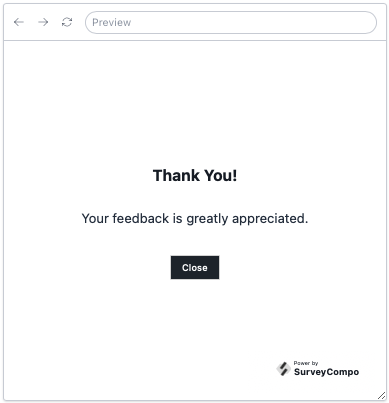
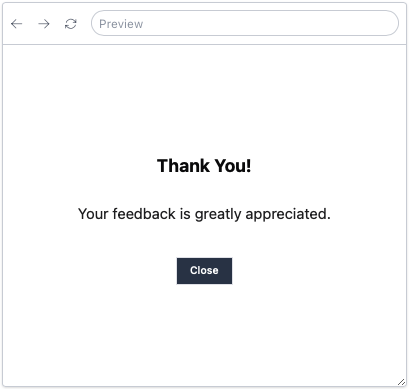
add customization, html text and using template sections

diff --git a/docs/getting-started.md b/docs/getting-started.md
@@ -545,7 +545,7 @@ Now, let's examine the functionality of these validation rules within the Survey
 
 ## Conditional Logic
 
-SurveyCompo supports conditional logic to show/hide specific pages, blocks and inputs based on their responses or external variables. Conditional logic is a powerful tool for tailoring the survey experience to individual participants and ensuring they receive relevant questions. For more information on conditional logic, see the [Conditional Logic](/advanced/#condition) documentation.
+SurveyCompo supports conditional logic to show/hide specific pages, blocks and inputs based on participant responses or external variables. Conditional logic is a powerful tool for tailoring the survey experience to individual participants and ensuring they receive relevant questions. For more information on conditional logic, see the [Conditional Logic](/advanced/#condition) documentation.
 
 In this tutorial, we will incorporate conditional logic into the survey. This will present a follow-up question tailored to the participant's response to the 'Overall satisfaction' question. If a participant expresses dissatisfaction, we will prompt them for additional feedback on potential product improvements. Conversely, if a participant is satisfied, we will ask them to share what they appreciate most about the product.
 
@@ -620,6 +620,138 @@ To enhance user experience, you might consider segregating the conditional block
 Let's preview the conditional logic in the Survey Builder:
 
 ![Tutorial - Conditional Logic](../assets/images/tutorial-condition.png){: .center}
+
+## Customization
+
+SurveyCompo offers a variety of customization options to tailor the survey experience to your brand and audience. You can customize the survey fonts, colors, layout and more.
+
+In this tutorial, we will customize the survey theme to use a custom color palette and default radius for buttons, boxes and inputs. We will also change the font family to Arial.
+
+``` json linenums="1" hl_lines="3-7"
+{
+  "name": "Product Satisfaction Survey",
+  "theme": {
+    "primaryColor": "#3b82f6",
+    "fontFamily": "Arial, sans-serif",
+    "defaultRadius": "2em",
+    "textareaRadius": "1em"
+  },
+  "startScreens": [ /* ... */ ],
+  "pages": [ /* ... */ ],
+  "completeScreens": [ /* ... */ ],
+  "abortScreens": [ /* ... */ ]
+}
+```
+By default, SurveyCompo generates the color palette based on the `primaryColor` provided. The generated colors are used for  buttons, boxes, and inputs.  The `fontFamily` property sets the font family for all text elements in the survey. The `defaultRadius` property defines the default radius for buttons, boxes, and inputs. The `textareaRadius` property sets the radius for Textareas inputs, if not specified, the `defaultRadius` is used for Textareas.
+
+Let's preview the customization in the Survey Builder:
+
+![Tutorial - Customization](../assets/images/tutorial-customization.png){: .center}
+
+Customization doesn't stop at colors and fonts. SurveyCompo offers a variety of customization options to tailor the survey experience to your brand and audience. You can customize the survey fonts, colors, layout, and more. For a comprehensive list of customization options, refer to the [Customization](/advanced/#customization) section in our documentation.
+
+
+## HTML Text
+
+SurveyCompo supports HTML text in the survey to enhance the visual appeal and readability of your questions and descriptions. HTML text allows you to format text, add images, and embed videos in your survey. For more information on HTML text, see the [HTML Text](/advanced/#html-text) documentation.
+
+In this tutorial, we will add HTML text to the Page footer to provide a link to the privacy policy.
+
+``` json linenums="1" hl_lines="11"
+{
+  "name": "Product Satisfaction Survey",
+  "theme": { /* ... */ },
+  "startScreens": [ /* ... */ ],
+  "pages": [
+    /* ... first page ... */
+    {
+      "header": "Product Satisfaction",
+      "nextButtonLabel": "Submit",
+      "blocks": [ /* ... */ ],
+      "htmlFooter": "<p>By submitting this survey, you agree to our <a href='https://www.surveycompo.com/privacy-policy'>Privacy Policy</a></p>"
+    }
+  ],
+  "completeScreens": [ /* ... */ ],
+  "abortScreens": [ /* ... */ ]
+}
+```
+
+The `htmlFooter` property allows you to add HTML text to the footer of the page. You can use HTML tags to format text, add links, and embed media. In this example, we use an anchor tag to create a hyperlink to the privacy policy.
+
+![Tutorial - HTML footer](../assets/images/tutorial-customization-footer1.png){: .center}
+
+However, a problem arises as the link in the footer does not resemble a typical hyperlink. Usually, hyperlinks are distinguished by a different color and often underlined for clarity.
+
+SurveyCompo does not include default styles for custom HTML elements. However, you can utilize inline styles or CSS to personalize these elements. In this instance, we'll employ CSS to enhance the appearance of the hyperlink.
+
+
+``` json linenums="1" hl_lines="4 12"
+{
+  "name": "Product Satisfaction Survey",
+  "theme": { /* ... */ },
+  "css": ".my-link { color: #3b82f6; text-decoration: underline; }",
+  "startScreens": [ /* ... */ ],
+  "pages": [
+    /* ... first page ... */
+    {
+      "header": "Product Satisfaction",
+      "nextButtonLabel": "Submit",
+      "blocks": [ /* ... */ ],
+      "htmlFooter": "<p>By submitting this survey, you agree to our <a href='https://www.surveycompo.com/privacy-policy' class='my-link'>Privacy Policy</a></p>"
+    }
+  ],
+  "completeScreens": [ /* ... */ ],
+  "abortScreens": [ /* ... */ ]
+}
+```
+
+We first assign a class name `my-link` to the hyperlink in the `htmlFooter` property. We then define the CSS class in the `css` property. The CSS class specifies the hyperlink's color and text decoration. By applying the CSS class to the hyperlink, we can customize its appearance.
+
+Let's preview the customized hyperlink in the Survey Builder:
+
+![Tutorial - HTML footer](../assets/images/tutorial-customization-footer2.png){: .center}
+
+It looks better now! HTML text applies to various elements in the survey. You can use HTML in Screens, Pages and Blocks.  For more information on HTML text, see the [HTML Text](/advanced/#html-text) documentation.
+
+
+## Using Templates
+
+We've recently appended an HTML footer to the survey's final page. But what if we want this footer to appear on all pages? Manually adding identical HTML to each page can be tedious and susceptible to errors. Fortunately, SurveyCompo provides a solution: templates. Templates are reusable components that allow you to define common elements, such as headers, footers, and styles, and apply them across multiple pages or blocks. For more information on templates, see the [Templates](/advanced/#templates) documentation.
+
+In this tutorial, we will create a template for the HTML footer and apply it to all pages in the survey.
+
+``` json linenums="1" hl_lines="5-8 13 18"
+{
+  "name": "Product Satisfaction Survey",
+  "theme": { /* ... */ },
+  "css": ".my-link { color: #3b82f6; text-decoration: underline; }",
+  "pageTemplates": [{
+    "templateName": "pageWithFooter",
+    "htmlFooter": "<p>By submitting this survey, you agree to our <a href='https://www.surveycompo.com/privacy-policy' class='my-link'>Privacy Policy</a></p>"
+  }],
+  "startScreens": [ /* ... */ ],
+  "pages": [
+    {
+      "header": "Product Satisfaction",
+      "template": "pageWithFooter",
+      "blocks": [ /* ... */ ],
+    },
+    {
+      "header": "Product Satisfaction",
+      "template": "pageWithFooter",
+      "nextButtonLabel": "Submit",
+      "blocks": [ /* ... */ ],
+    }
+  ],
+  "completeScreens": [ /* ... */ ],
+  "abortScreens": [ /* ... */ ]
+}
+```
+
+We've successfully created a page template named `pageWithFooter` that includes an HTML footer. This template has been applied to both survey pages. Remember, if necessary, you can override the properties of the template on any specific page.
+
+When previewed in the survey builder, the same footer will be visible on both pages.
+
 
 ## Adding Input Identifiers
 
